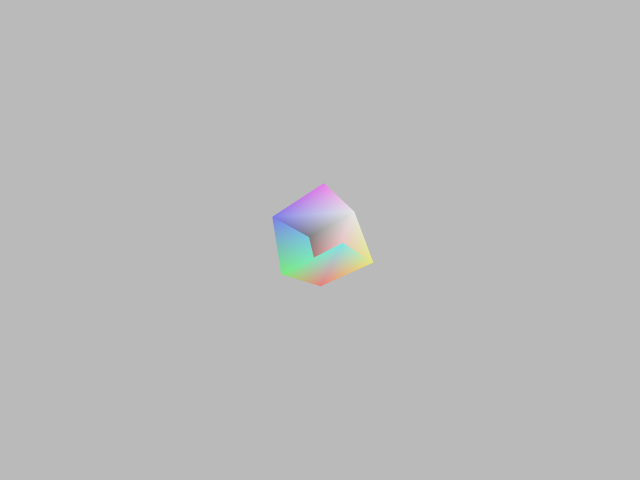
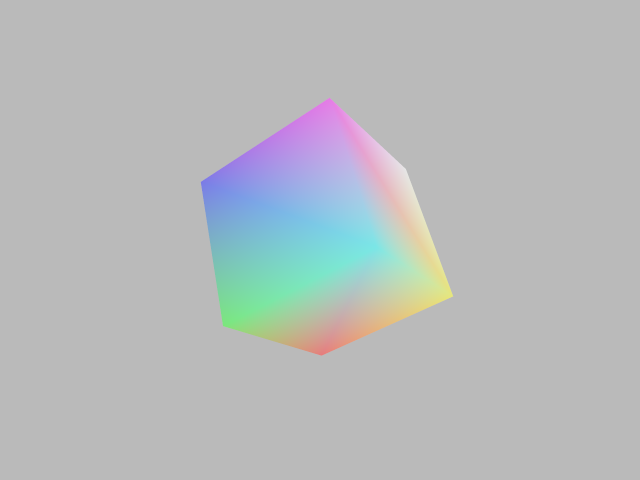
seem done part 1-3

Changed region(s): [[0.3125, 0.1875, 0.7188, 0.75]]

diff --git a/src/hw2.cpp b/src/hw2.cpp
@@ -3,14 +3,7 @@
 
 using namespace hw2;
 
-/**
- * This function checks if a point is inside a triangle.
- * @param p0 point 0 of the triangle
- * @param p1 point 1 of the triangle
- * @param p2 point 2 of the triangle
- * @param p point to be checked
- * @return true if the point is inside the triangle, false otherwise
- */
+
 bool is_inside_triangle(Vector2 p0, Vector2 p1, Vector2 p2, Vector2 p) {
     // Compute the edge vectors of the triangle
     Vector2 e01 = p1 - p0;
@@ -31,23 +24,10 @@ bool is_inside_triangle(Vector2 p0, Vector2 p1, Vector2 p2, Vector2 p) {
     return (d1 >= 0 && d2 >= 0 && d3 >= 0) || (d1 <= 0 && d2 <= 0 && d3 <= 0);
 }
 
-/**
- * This function projects a 3D point to 2D.
- * @param p 3D point to be projected
- * @return 2D point after projection
- */
 Vector2 project(const Vector3 &p) {
     return { -p.x / p.z, -p.y / p.z };
 }
 
-/**
- * This function converts a point from normalized device coordinates to screen space.
- * @param p The point in normalized device coordinates
- * @param width The width of the screen
- * @param height The height of the screen
- * @param s The scaling factor of the view frustum
- * @return The point in screen space
- */
 Vector2 toScreenSpace(const Vector2 &p, int width, int height, Real s) {
     float aspect_ratio = static_cast<float>(width) / height;
 
@@ -74,6 +54,11 @@ Image3 hw_2_1(const std::vector<std::string> &params) {
     // Homework 2.1: render a single 3D triangle
 
     Image3 img(640 /* width */, 480 /* height */);
+
+    const int AA_FACTOR = 4;
+    const int SUPER_WIDTH = 640 * AA_FACTOR;
+    const int SUPER_HEIGHT = 480 * AA_FACTOR;
+    Image3 superImg(SUPER_WIDTH, SUPER_HEIGHT);
 
     Vector3 p0{0, 0, -1};
     Vector3 p1{1, 0, -1};
@@ -106,42 +91,51 @@ Image3 hw_2_1(const std::vector<std::string> &params) {
         }
     }
 
+    for (int y = 0; y < SUPER_HEIGHT; y++) {
+        for (int x = 0; x < SUPER_WIDTH; x++) {
+            superImg(x, y) = Vector3{0.5, 0.5, 0.5}; // Default background color
+        }
+    }
+
+
 
     // Project the 3D triangle vertices to 2D
     Vector2 p0_projected = project(p0);
     Vector2 p1_projected = project(p1);
     Vector2 p2_projected = project(p2);
 
-    // Convert the projected vertices to screen space
-    Vector2 p0_screen = toScreenSpace(p0_projected, img.width, img.height, s);
-    Vector2 p1_screen = toScreenSpace(p1_projected, img.width, img.height, s);
-    Vector2 p2_screen = toScreenSpace(p2_projected, img.width, img.height, s);
+    // Convert the projected vertices to super-sampled screen space
+    Vector2 p0_screen = toScreenSpace(p0_projected, SUPER_WIDTH, SUPER_HEIGHT, s);
+    Vector2 p1_screen = toScreenSpace(p1_projected, SUPER_WIDTH, SUPER_HEIGHT, s);
+    Vector2 p2_screen = toScreenSpace(p2_projected, SUPER_WIDTH, SUPER_HEIGHT, s);
 
-    const int samples = 4;
+    // bounding box for fast rendering
+    int x_min = std::max(0, static_cast<int>(std::min({p0_screen.x, p1_screen.x, p2_screen.x})));
+    int x_max = std::min(SUPER_WIDTH - 1, static_cast<int>(std::max({p0_screen.x, p1_screen.x, p2_screen.x})));
+    int y_min = std::max(0, static_cast<int>(std::min({p0_screen.y, p1_screen.y, p2_screen.y})));
+    int y_max = std::min(SUPER_HEIGHT - 1, static_cast<int>(std::max({p0_screen.y, p1_screen.y, p2_screen.y})));
 
-    for (int y = 0; y < img.height; y++) {
-        for (int x = 0; x < img.width; x++) {
-            Vector3 accumulated_color{0, 0, 0}; // Accumulator for the samples
-
-            for (int i = 0; i < samples; i++) {
-                for (int j = 0; j < samples; j++) {
-                    // Calculate the sample's position
-                    float sample_x = x + float(i + 0.5) / samples;
-                    float sample_y = y + float(j + 0.5) / samples;
-
-                    // Check if this sample is inside the triangle
-                    if (is_inside_triangle(p0_screen, p1_screen, p2_screen, {sample_x, sample_y})) {
-                        accumulated_color += color;
-                    } else {
-                        accumulated_color += Vector3{0.5, 0.5, 0.5}; // Default color
-                    }
-                }
+    for (int y = y_min; y <= y_max; y++) {
+        for (int x = x_min; x <= x_max; x++) {
+            if (is_inside_triangle(p0_screen, p1_screen, p2_screen, Vector2(x + 0.5, y + 0.5))) {
+                superImg(x, y) = color;
             }
-
-            // Average the samples and assign to pixel
-            img(x, y) = accumulated_color / Real(samples * samples);
         }
     }
+
+    // Downsampling
+    for (int y = 0; y < 480; y++) {
+        for (int x = 0; x < 640; x++) {
+            Vector3 sumColor = Vector3{0, 0, 0};
+            for (int dy = 0; dy < AA_FACTOR; dy++) {
+                for (int dx = 0; dx < AA_FACTOR; dx++) {
+                    sumColor += superImg(x * AA_FACTOR + dx, y * AA_FACTOR + dy);
+                }
+            }
+            img(x, y) = sumColor / Real(AA_FACTOR * AA_FACTOR);
+        }
+    }
+
     return img;
 }
 
@@ -152,6 +146,8 @@ Image3 hw_2_2(const std::vector<std::string> &params) {
     const int SUPER_HEIGHT = 480 * AA_FACTOR;
 
     Image3 superImg(SUPER_WIDTH, SUPER_HEIGHT);
+
+    std::vector<Real> z_buffer(SUPER_WIDTH * SUPER_HEIGHT, -std::numeric_limits<Real>::infinity());
 
     Image3 img(640 /* width */, 480 /* height */);
 
@@ -191,7 +187,7 @@ Image3 hw_2_2(const std::vector<std::string> &params) {
         int y_min = std::min({projected_v0.y, projected_v1.y, projected_v2.y});
         int y_max = std::max({projected_v0.y, projected_v1.y, projected_v2.y});
 
-        // Clip against screen bounds
+        // bounding box for fast rendering
         x_min = std::max(0, x_min);
         y_min = std::max(0, y_min);
         x_max = std::min(SUPER_WIDTH - 1, x_max);
@@ -199,8 +195,19 @@ Image3 hw_2_2(const std::vector<std::string> &params) {
 
         for (int y = y_min; y <= y_max; y++) {
             for (int x = x_min; x <= x_max; x++) {
-                if (is_inside_triangle(projected_v0, projected_v1, projected_v2, Vector2(x + 0.5, y + 0.5))) {
-                    superImg(x, y) = mesh.face_colors[&face - &mesh.faces[0]];
+                Vector2 pixel_center(x + 0.5, y + 0.5);
+                if (is_inside_triangle(projected_v0, projected_v1, projected_v2, pixel_center)) {
+                    Vector3 barycentric = barycentric_coordinates(projected_v0, projected_v1, projected_v2, pixel_center);
+
+                    if (barycentric.x < 0 || barycentric.y < 0 || barycentric.z < 0) continue;
+
+                    Real depth = barycentric.x * v0.z + barycentric.y * v1.z + barycentric.z * v2.z;
+
+                    int z_index = y * SUPER_WIDTH + x;
+                    if (depth > z_buffer[z_index]) {
+                        superImg(x, y) = mesh.face_colors[&face - &mesh.faces[0]];
+                        z_buffer[z_index] = depth;
+                    }
                 }
             }
         }
@@ -229,6 +236,8 @@ Image3 hw_2_3(const std::vector<std::string> &params) {
     const int AA_FACTOR = 4;
     const int SUPER_WIDTH = 640 * AA_FACTOR;
     const int SUPER_HEIGHT = 480 * AA_FACTOR;
+
+    std::vector<Real> z_buffer(SUPER_WIDTH * SUPER_HEIGHT, -std::numeric_limits<Real>::infinity());
 
     Image3 superImg(SUPER_WIDTH, SUPER_HEIGHT);
     Image3 img(640, 480);
@@ -273,7 +282,7 @@ Image3 hw_2_3(const std::vector<std::string> &params) {
         int y_min = std::min({projected_v0.y, projected_v1.y, projected_v2.y});
         int y_max = std::max({projected_v0.y, projected_v1.y, projected_v2.y});
 
-        // Clip against screen bounds
+        // bounding box for fast rendering
         x_min = std::max(0, x_min);
         y_min = std::max(0, y_min);
         x_max = std::min(SUPER_WIDTH - 1, x_max);
@@ -281,10 +290,22 @@ Image3 hw_2_3(const std::vector<std::string> &params) {
 
         for (int y = y_min; y <= y_max; y++) {
             for (int x = x_min; x <= x_max; x++) {
-                if (is_inside_triangle(projected_v0, projected_v1, projected_v2, Vector2(x + 0.5, y + 0.5))) {
-                    Vector3 barycentric = barycentric_coordinates(projected_v0, projected_v1, projected_v2, Vector2(x + 0.5, y + 0.5));
-                    Vector3 interpolated_color = barycentric.x * color0 + barycentric.y * color1 + barycentric.z * color2;
-                    superImg(x, y) = interpolated_color;
+                Vector2 pixel_center(x + 0.5, y + 0.5);
+                if (is_inside_triangle(projected_v0, projected_v1, projected_v2, pixel_center)) {
+                    Vector3 barycentric = barycentric_coordinates(projected_v0, projected_v1, projected_v2,
+                                                                  pixel_center);
+
+                    if (barycentric.x < 0 || barycentric.y < 0 || barycentric.z < 0) continue;
+
+                    Real depth = barycentric.x * v0.z + barycentric.y * v1.z + barycentric.z * v2.z;
+
+                    int z_index = y * SUPER_WIDTH + x;
+                    if (depth > z_buffer[z_index]) {
+                        Vector3 interpolated_color =
+                                barycentric.x * color0 + barycentric.y * color1 + barycentric.z * color2;
+                        superImg(x, y) = interpolated_color;
+                        z_buffer[z_index] = depth;
+                    }
                 }
             }
         }

diff --git a/README.md b/README.md
@@ -1,2 +1,11 @@
-# This is HW2 for CSE 167
+# CSE 167 HW2
+
+## Optimization I done:
+1. bounding box for hw_2_1, hw_2_2 and hw_2_3 for faster rendering
+
+## Normal Part
+1. using the same way as write up instruct to run
+2. pre-rendering image is in `output` folder
+
+## Extra Credit
 
